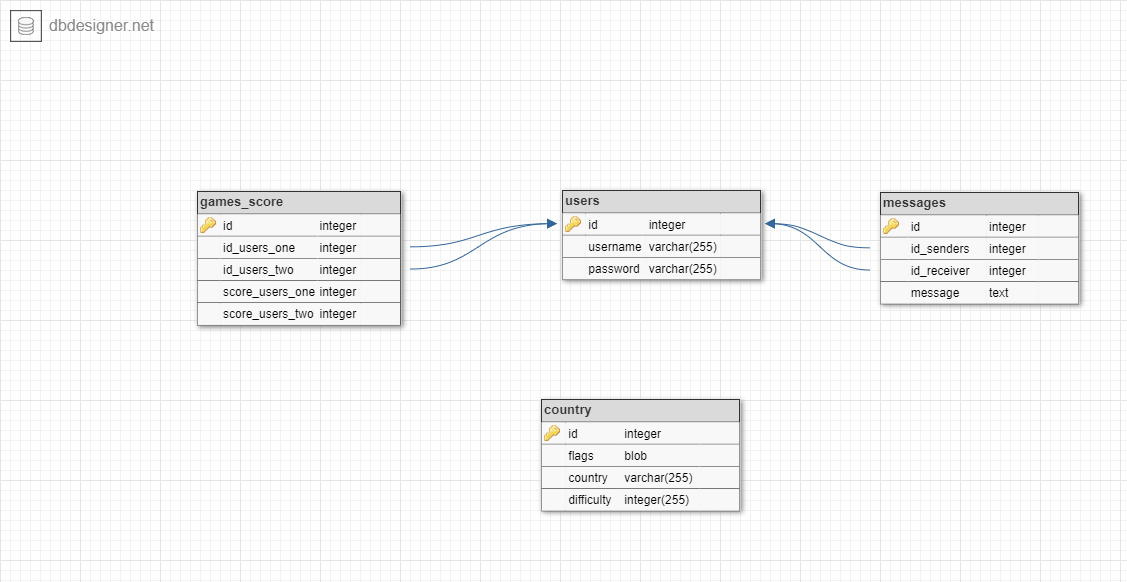
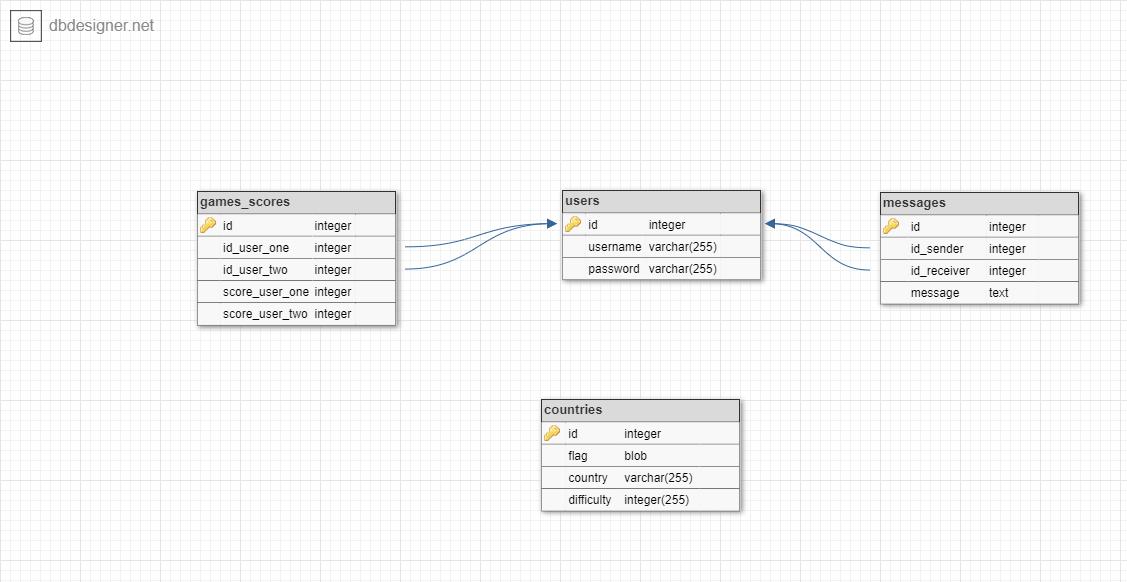
Correction des noms

Changed region(s): [[0.3416, 0.3402, 0.4348, 0.5567], [0.2174, 0.3711, 0.3106, 0.5567], [0.2174, 0.4639, 0.2484, 0.4948]]

diff --git a/Image/manage-country.py b/Image/manage-country.py
@@ -2,6 +2,9 @@
 import os
 import base64
 
+
+
+#Main
 def main():
     print("Start")
 
@@ -13,20 +16,40 @@ def main():
     
     #Loop through the files
     for f in files:
+
         #If the file is a png file
         if f.endswith(".png"):
+
             #Get the name of the country
             country = f.split(".")[0]
+
             #Transform the image into base64 using base64.b64encode()
             flag = base64.b64encode(open(f, "rb").read()).decode("utf-8")
             
             #Create a insert statement int the table country with the following value flags wihch is the image (blob), country which is the country name and difficulty wich is at one.
-            file.write("INSERT INTO country (flag, country, difficulty) VALUES ('" + flag + "', '" + country + "', 1);")
+            file.write("INSERT INTO countries (flag, country, difficulty) VALUES ('" + flag + "', '" + country + "', 1);")
 
     #Close the file
     file.close()
 
+    #Ask the user if the script should be executed
+    if input("Do you want to execute the script? (y/n)") == "y":
+        #Execute the script
+        insert_into_database()
+
     print("End")
+
+#Def InsertIntoDatabase
+def insert_into_database():
+    #Variables
+    user = "javaprojet"
+    password = "devops"
+    database = "javaprojet"
+    host = "45.155.169.116"
+    port= "6006"
+
+    #Execute the script into the database using the variables
+    os.system("mysql -u " + user + " -p" + password + " -D " + database + " -h " + host + " -P " + port + " < countries.sql")
 
 #If Main
 if __name__ == "__main__":
